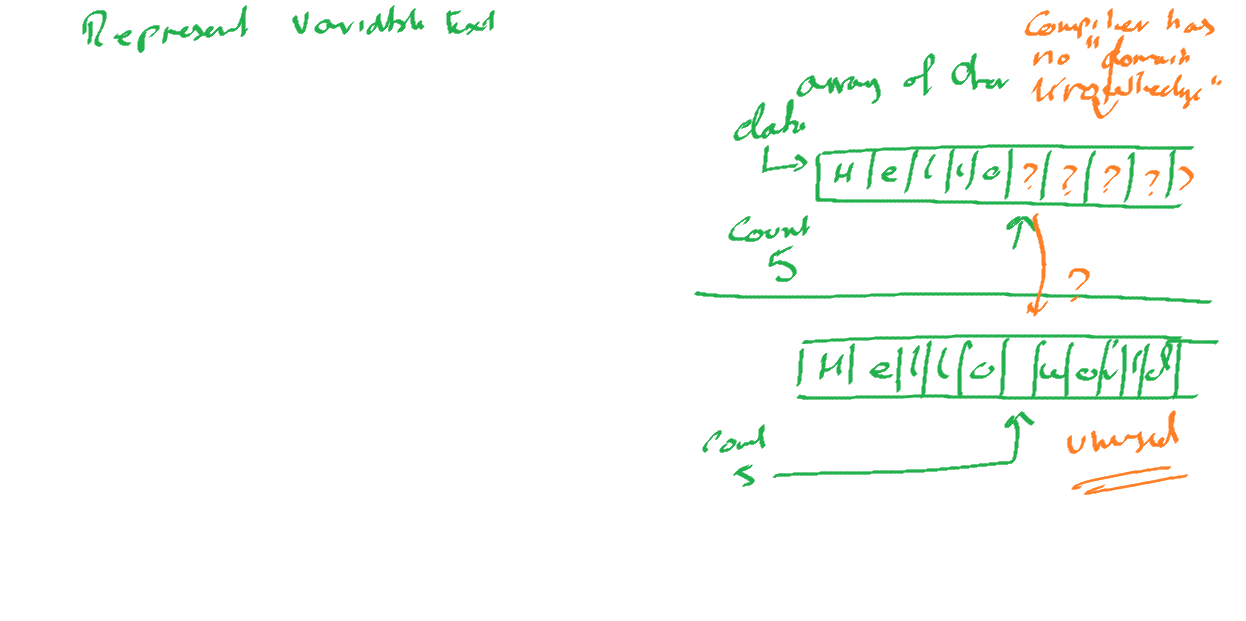
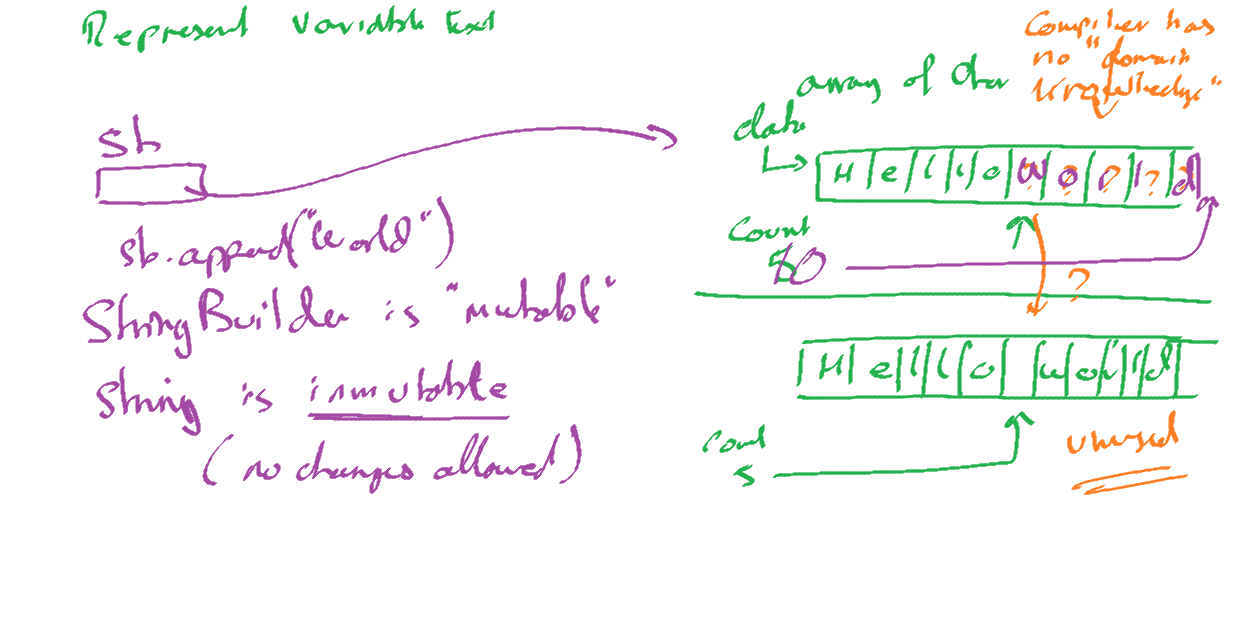
equals and == discussions

diff --git a/src/main/java/equals/Mutate.java b/src/main/java/equals/Mutate.java
@@ -1,0 +1,17 @@
+package equals;
+
+public class Mutate {
+  public static void main(String[] args) {
+    String s = new String("Hello");
+    StringBuilder sb = new StringBuilder("Hello");
+    /*s = */s.concat("World");
+    sb.append("World");
+    System.out.println("s = " + s);
+    System.out.println("sb = " + sb);
+    // A) Hello, Hello
+    // B) HelloWorld, HelloWorld
+    // C) Hello, HelloWorld
+    // D) HelloWorld, Hello
+
+  }
+}
